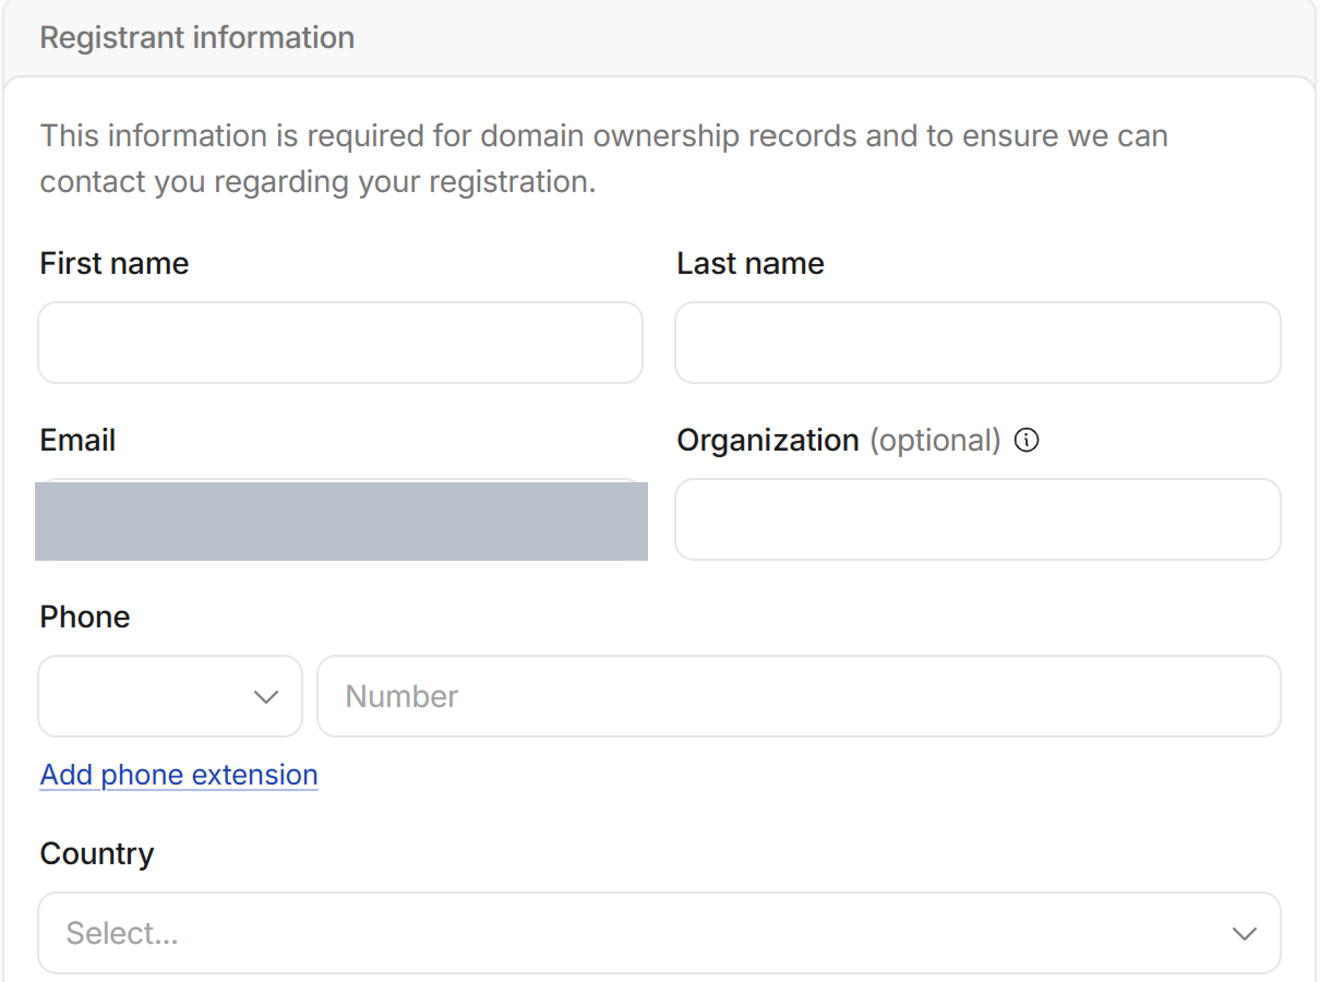
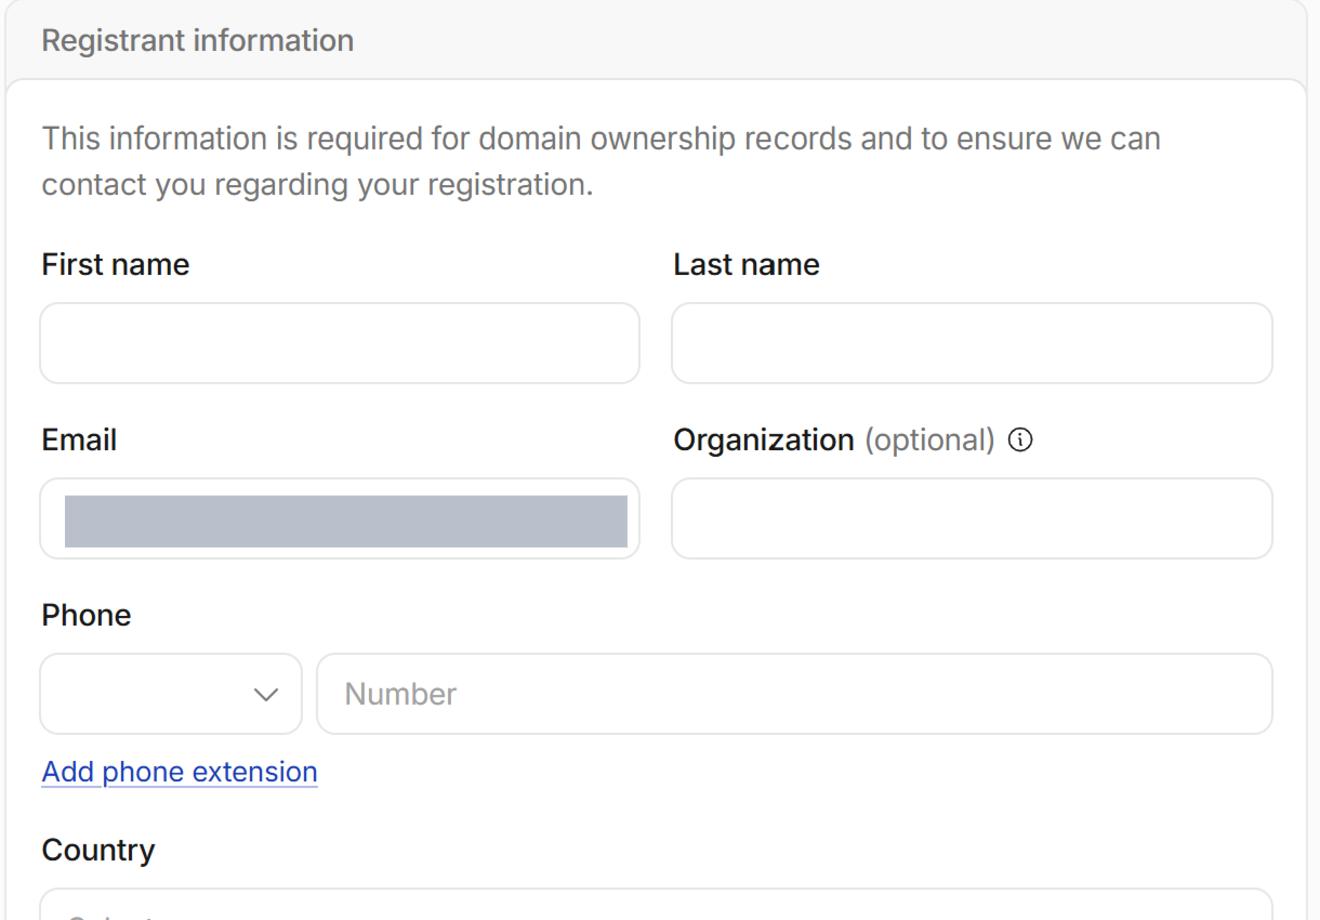
Update the preview

diff --git a/guide/index.html b/guide/index.html
@@ -288,7 +288,7 @@
   }
   .shot__box::before {
     content: attr(data-n);
-    position: absolute; left: 0; top: 0; transform: translate(-50%, -50%);
+    position: absolute; left: 0; top: 0; transform: translate(-58%, -58%);
     width: 1.45rem; height: 1.45rem; border-radius: 50%;
     display: grid; place-items: center;
     background: var(--accent); color: #0b0b0c;
@@ -311,6 +311,14 @@
       display: block; font-size: 0.78rem; color: var(--soft); padding: 0.4rem 0 0;
     }
   }
+
+  /* Three ways out when the default top-left corner is no good: a box against
+     the left edge hangs its badge off the picture, and a full-width box has no
+     outside corner at all, so those tuck it inside the edge, above or below. */
+  .shot__box[data-badge="right"]::before { left: auto; right: 0; transform: translate(58%, -58%); }
+  .shot__box[data-badge="above"]::before { transform: translate(12%, -58%); }
+  .shot__box[data-badge="below"]::before { top: auto; bottom: 0; transform: translate(12%, 58%); }
+  .shot__box[data-badge="left"]::before { top: 50%; transform: translate(-72%, -50%); }
 
   .shot__key { counter-reset: pin; list-style: none; margin: 0.9rem 0 0; padding: 0;
                display: grid; gap: 0.45rem; }
@@ -552,11 +560,11 @@
               <div class="shot__scroll"><div class="shot__wrap">
                 <img src="shots/signup.png" width="978" height="1500" loading="lazy"
                      alt="The Cloudflare sign-up page: buttons to continue with Google, Apple or GitHub, then an email and password field, then a Sign up button.">
-                <b class="shot__box" data-n="1" style="--x:4%;--y:13.5%;--w:92%;--h:5.5%"></b>
-                <b class="shot__box" data-n="2" style="--x:4%;--y:42.5%;--w:92%;--h:5%"></b>
-                <b class="shot__box" data-n="3" style="--x:4%;--y:53.5%;--w:92%;--h:5.5%"></b>
-                <b class="shot__box" data-n="4" style="--x:4%;--y:92.5%;--w:92%;--h:5.5%"></b>
-              </div></div>
+              <b class="shot__box" data-n="1" style="--x:3.3%;--y:13.2%;--w:93.0%;--h:6.3%"></b>
+              <b class="shot__box" data-n="2" style="--x:3.3%;--y:42.3%;--w:93.0%;--h:5.7%"></b>
+              <b class="shot__box" data-n="3" style="--x:3.3%;--y:53.1%;--w:93.0%;--h:6.3%"></b>
+              <b class="shot__box" data-n="4" style="--x:3.3%;--y:92.5%;--w:93.0%;--h:5.7%"></b>
+            </div></div>
               <ol class="shot__key">
                 <li><strong>If you have a Gmail address, use "Continue with Google".</strong>
                   It is the quickest way in and there is no new password to remember or
@@ -578,8 +586,8 @@
               <div class="shot__scroll"><div class="shot__wrap">
                 <img src="shots/verify.png" width="1180" height="619" loading="lazy"
                      alt="The Cloudflare email headed 'Your account needs a confirmed email address', with an orange Verify your email button.">
-                <b class="shot__box" data-n="1" style="--x:7%;--y:65%;--w:25%;--h:11.5%"></b>
-              </div></div>
+              <b class="shot__box" data-n="1" style="--x:6.5%;--y:63.0%;--w:25.8%;--h:15.2%"></b>
+            </div></div>
               <ol class="shot__key">
                 <li>One click on <strong>Verify your email</strong>, and this step is done.</li>
               </ol>
@@ -603,9 +611,9 @@
               <div class="shot__scroll"><div class="shot__wrap">
                 <img src="shots/domain-find.png" width="1320" height="585" loading="lazy"
                      alt="The Cloudflare dashboard on the Registrations page, with Domains open in the left menu and a search box in the middle of the page.">
-                <b class="shot__box" data-n="1" style="--x:3%;--y:35%;--w:15%;--h:7.5%"></b>
-                <b class="shot__box" data-n="2" style="--x:40.5%;--y:74%;--w:33.5%;--h:8%"></b>
-              </div></div>
+              <b class="shot__box" data-n="1" data-badge="right" style="--x:1.6%;--y:32.6%;--w:18.0%;--h:9.1%"></b>
+              <b class="shot__box" data-n="2" style="--x:40.6%;--y:74.0%;--w:39.2%;--h:8.0%"></b>
+            </div></div>
               <ol class="shot__key">
                 <li>In the menu down the left, open <strong>Domains</strong>, then
                   <strong>Registrations</strong>.</li>
@@ -623,17 +631,20 @@
               here and not ours.</p>
             <figure class="shot shot--wide">
               <div class="shot__scroll"><div class="shot__wrap">
-                <img src="shots/domain-details.png" width="1320" height="982" loading="lazy"
+                <img src="shots/domain-details.png" width="1320" height="920" loading="lazy"
                      alt="The Registrant information form, with fields for first name, last name, email, organisation, phone and country.">
-                <b class="shot__box" data-n="1" style="--x:2.5%;--y:24.5%;--w:95%;--h:14.5%"></b>
-                <b class="shot__box" data-n="2" style="--x:2.5%;--y:42%;--w:46.5%;--h:15%"></b>
-                <b class="shot__box" data-n="3" style="--x:2.5%;--y:83%;--w:95%;--h:15%"></b>
-              </div></div>
+              <b class="shot__box" data-n="1" style="--x:1.9%;--y:25.0%;--w:96.2%;--h:18.5%"></b>
+              <b class="shot__box" data-n="2" style="--x:1.9%;--y:44.6%;--w:47.7%;--h:17.4%"></b>
+              <b class="shot__box" data-n="3" style="--x:1.9%;--y:64.9%;--w:96.2%;--h:15.7%"></b>
+              <b class="shot__box" data-n="4" style="--x:1.9%;--y:90.3%;--w:96.2%;--h:9.7%"></b>
+            </div></div>
               <ol class="shot__key">
                 <li>Your name. Not a business name — this is the person who owns it.</li>
                 <li>Your email. It fills itself in from the account you just made, which is
                   correct. Leave it.</li>
-                <li>Phone and country, then scroll on down.</li>
+                <li>Your phone number.</li>
+                <li>Country. Then scroll on down — the list carries on below the
+                  bottom of this picture.</li>
               </ol>
               <figcaption>Organisation is marked optional and you can leave it empty.</figcaption>
             </figure>
@@ -643,12 +654,12 @@
             <h3>Check three things on the right, then pay</h3>
             <figure class="shot">
               <div class="shot__scroll"><div class="shot__wrap">
-                <img src="shots/domain-pay.png" width="1100" height="1100" loading="lazy"
+                <img src="shots/domain-pay.png" width="1100" height="1055" loading="lazy"
                      alt="The registration details panel showing the domain at $10.46, a one year registration period, automatic renewal switched on, and a blue Continue to pay button.">
-                <b class="shot__box" data-n="1" style="--x:5%;--y:15%;--w:90%;--h:6.5%"></b>
-                <b class="shot__box" data-n="2" style="--x:5%;--y:40%;--w:90%;--h:12%"></b>
-                <b class="shot__box" data-n="3" style="--x:1.5%;--y:70.5%;--w:97%;--h:11.5%"></b>
-              </div></div>
+              <b class="shot__box" data-n="1" style="--x:4.6%;--y:15.7%;--w:88.5%;--h:5.4%"></b>
+              <b class="shot__box" data-n="2" style="--x:4.6%;--y:43.0%;--w:88.9%;--h:11.1%"></b>
+              <b class="shot__box" data-n="3" data-badge="above" style="--x:0.5%;--y:74.0%;--w:98.9%;--h:12.1%"></b>
+            </div></div>
               <ol class="shot__key">
                 <li><strong>The name, spelled exactly right.</strong> Read it once more.
                   Domains are not refundable, and a typo is a different name that somebody
@@ -695,9 +706,9 @@
               <div class="shot__scroll"><div class="shot__wrap">
                 <img src="shots/members.png" width="1320" height="346" loading="lazy"
                      alt="The Members page, reached from Manage Account, listing the members on the account and showing a blue Invite members button.">
-                <b class="shot__box" data-n="1" style="--x:1.5%;--y:4%;--w:21.5%;--h:11%"></b>
-                <b class="shot__box" data-n="2" style="--x:83.5%;--y:51%;--w:13.5%;--h:15%"></b>
-              </div></div>
+              <b class="shot__box" data-n="1" data-badge="right" style="--x:1.1%;--y:5.5%;--w:25.0%;--h:15.6%"></b>
+              <b class="shot__box" data-n="2" style="--x:83.0%;--y:50.3%;--w:14.2%;--h:16.5%"></b>
+            </div></div>
               <ol class="shot__key">
                 <li>Top left of the dashboard: <strong>Manage Account</strong>, then
                   <strong>Members</strong>.</li>
@@ -713,8 +724,8 @@
               <div class="shot__scroll"><div class="shot__wrap">
                 <img src="shots/invite-email.png" width="1045" height="255" loading="lazy"
                      alt="The Add email addresses box on the invite form.">
-                <b class="shot__box" data-n="1" style="--x:3%;--y:52%;--w:94%;--h:30%"></b>
-              </div></div>
+              <b class="shot__box" data-n="1" style="--x:3.3%;--y:51.4%;--w:94.2%;--h:31.4%"></b>
+            </div></div>
               <ol class="shot__key">
                 <li>One address — the one we sent you. Ignore the "second@example.com" in
                   the grey text; that is just an example of the format.</li>
@@ -730,9 +741,9 @@
               <div class="shot__scroll"><div class="shot__wrap">
                 <img src="shots/invite-roles.png" width="990" height="720" loading="lazy"
                      alt="A list of permission categories: Overall roles, Developer Platform, App Security, Analytics and Logs, App Performance, Network Services, and Cloudflare One.">
-                <b class="shot__box" data-n="1" style="--x:1.5%;--y:5%;--w:96.5%;--h:10%"></b>
-                <b class="shot__box" data-n="2" style="--x:88.5%;--y:7%;--w:7.5%;--h:5.5%"></b>
-              </div></div>
+              <b class="shot__box" data-n="1" data-badge="right" style="--x:3.8%;--y:6.7%;--w:25.0%;--h:5.3%"></b>
+              <b class="shot__box" data-n="2" style="--x:89.5%;--y:5.7%;--w:9.9%;--h:7.4%"></b>
+            </div></div>
               <ol class="shot__key">
                 <li>Click the little arrow beside <strong>Overall roles</strong> to open
                   it, and find <strong>Administrator</strong> in the list.</li>
@@ -753,9 +764,9 @@
               <div class="shot__scroll"><div class="shot__wrap">
                 <img src="shots/invite-send.png" width="1050" height="290" loading="lazy"
                      alt="Two buttons: Create policy above, and Invite members below next to a Cancel button.">
-                <b class="shot__box" data-n="1" style="--x:75.5%;--y:8%;--w:22%;--h:22%"></b>
-                <b class="shot__box" data-n="2" style="--x:74%;--y:69%;--w:25.5%;--h:24%"></b>
-              </div></div>
+              <b class="shot__box" data-n="1" style="--x:74.9%;--y:5.5%;--w:24.6%;--h:26.9%"></b>
+              <b class="shot__box" data-n="2" style="--x:74.5%;--y:66.6%;--w:25.1%;--h:29.7%"></b>
+            </div></div>
               <ol class="shot__key">
                 <li><strong>Create policy</strong> first. This saves the permission you
                   just chose. Nothing is sent yet.</li>
@@ -815,9 +826,9 @@
               <div class="shot__scroll"><div class="shot__wrap">
                 <img src="shots/email-verify.png" width="1320" height="530" loading="lazy"
                      alt="Illustration of the Email Routing screen: a box for the destination address and a Send verification email button.">
-                <b class="shot__box" data-n="1" style="--x:7%;--y:66%;--w:66%;--h:13%"></b>
-                <b class="shot__box" data-n="2" style="--x:74.5%;--y:66%;--w:18.5%;--h:13%"></b>
-              </div></div>
+              <b class="shot__box" data-n="1" data-badge="left" style="--x:7.0%;--y:64.5%;--w:67.0%;--h:12.1%"></b>
+              <b class="shot__box" data-n="2" style="--x:74.4%;--y:64.5%;--w:18.8%;--h:12.1%"></b>
+            </div></div>
               <ol class="shot__key">
                 <li>The inbox you want enquiries to arrive in.</li>
                 <li>Send the confirmation, then click the link in it. The address turns to
@@ -867,9 +878,9 @@
           <div class="shot__scroll"><div class="shot__wrap">
             <img src="shots/members-menu.png" width="1320" height="289" loading="lazy"
                  alt="The members list with the three-dot menu open, showing View and edit permission policies, Manage member settings, and Remove member in red.">
-            <b class="shot__box" data-n="1" style="--x:93%;--y:24%;--w:3.5%;--h:14%"></b>
-            <b class="shot__box" data-n="2" style="--x:74.5%;--y:69%;--w:14%;--h:17%"></b>
-          </div></div>
+              <b class="shot__box" data-n="1" style="--x:93.5%;--y:21.1%;--w:3.6%;--h:14.9%"></b>
+              <b class="shot__box" data-n="2" data-badge="right" style="--x:74.3%;--y:70.9%;--w:21.8%;--h:15.2%"></b>
+            </div></div>
           <ol class="shot__key">
             <li>Find <strong>our</strong> row — not yours — and click the
               <strong>three dots</strong> at the end of it.</li>
